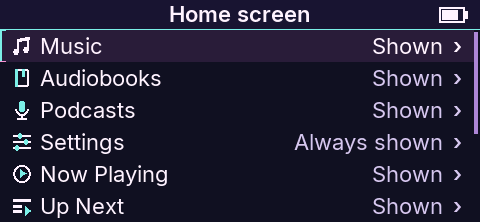
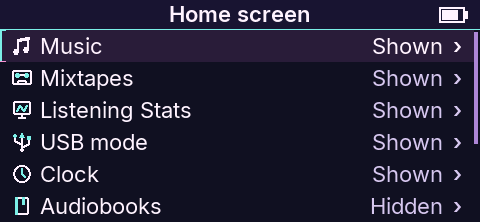
Correct Home screenshots to the new default menu order

diff --git a/site/docs.html b/site/docs.html
@@ -32,19 +32,19 @@
 </header>
 <main id="main"><div class="page-intro wrap"><p class="eyebrow">Docs · player guide</p><h1 class="page-title">Get to know Gnarlyr.</h1><p>Find your way around the screens, learn the buttons and make the player your own. Screenshots are rendered by Gnarlyr’s simulator with a sample library. Select any image to see it at full size.</p></div><div class="doc-layout wrap"><nav class="contents" aria-label="On this page"><p class="eyebrow">On this page</p><ol><li><a href="#basics">Buttons &amp; Home</a></li><li><a href="#music">Find music</a></li><li><a href="#playback">Now Playing &amp; queue</a></li><li><a href="#saved">Mixtapes &amp; Moments</a></li><li><a href="#words">Books &amp; lyrics</a></li><li><a href="#sound">Equalizer</a></li><li><a href="#settings">All settings</a></li><li><a href="#date-time">Date &amp; time</a></li><li><a href="#personalize">Themes &amp; controls</a></li><li><a href="#languages">Languages</a></li><li><a href="#usb">USB modes</a></li><li><a href="#references">Hardware &amp; more guides</a></li></ol></nav><div><section class="doc-section" id="basics" aria-labelledby="basics-title"><h2 id="basics-title">Start here.</h2><p class="intro">Use the volume buttons to move, Play to choose and Back to return. Hold Back to go Home.</p><div class="screen-grid"><article class="screen-card"><div class="screen-heading"><h3>Home</h3><p class="screen-path">Hold Back → Home</p></div>
 <figure><a class="screen-image" href="assets/screens/home.png" aria-label="Open Home screenshot at full size"><img src="assets/screens/home.png" width="480" height="222" loading="lazy" decoding="async" alt="Gnarlyr Home screen"></a><figcaption>Landscape view · select image to enlarge</figcaption></figure>
-<div class="screen-copy"><p>Open Music, Audiobooks, Settings, Mixtapes, Listening or USB mode here. Now Playing and Up Next appear after you choose a track.</p><ul><li>Press Play to open the highlighted item.</li><li>The battery icon shows remaining charge. It turns red as charge runs low; a bolt inside it shows USB power.</li><li>Press Power to turn the screen off or on; hold it for two seconds to switch off.</li><li>For pocket listening, hold Play and Power together for about a second to lock or unlock the buttons.</li></ul></div></article></div></section><section class="doc-section" id="music" aria-labelledby="music-title"><h2 id="music-title">Find something to play.</h2><p class="intro">Browse your library visually or search for a song. Start from an artist, album, folder or playlist to keep that group together.</p><div class="screen-grid"><article class="screen-card"><div class="screen-heading"><h3>Cover Flow</h3><p class="screen-path">Home → Music → Cover Flow</p></div>
+<div class="screen-copy"><p>Home starts with Music, Mixtapes, Listening Stats, USB mode, Clock and Settings, in that order. Now Playing appears above Music whenever a track is loaded, playing or paused.</p><ul><li>Press Play to open the highlighted item. Music includes the Audiobooks and Podcasts shelves when available.</li><li>Open Up Next with Menu on Now Playing. Settings → Home screen can also show the shelves and Up Next on Home.</li><li>The battery icon shows remaining charge. It turns red as charge runs low; a bolt inside it shows USB power.</li><li>Press Power to turn the screen off or on; hold it for two seconds to switch off.</li><li>For pocket listening, hold Play and Power together for about a second to lock or unlock the buttons.</li></ul></div></article></div></section><section class="doc-section" id="music" aria-labelledby="music-title"><h2 id="music-title">Find something to play.</h2><p class="intro">Browse your library visually or search for a song. Start from an artist, album, folder or playlist to keep that group together.</p><div class="screen-grid"><article class="screen-card"><div class="screen-heading"><h3>Cover Flow</h3><p class="screen-path">Home → Music → Cover Flow</p></div>
 <figure><a class="screen-image" href="assets/screens/cover-flow.png" aria-label="Open Cover Flow screenshot at full size"><img src="assets/screens/cover-flow.png" width="480" height="222" loading="lazy" decoding="async" alt="Gnarlyr Cover Flow screen"></a><figcaption>Landscape view · select image to enlarge</figcaption></figure>
 <div class="screen-copy"><p>Flip through album covers. Albums without artwork get a colored cover with initials, using your current theme. The Random album tile picks an album for you.</p><ul><li>Use the volume buttons to move between albums.</li><li>Hold to scroll faster, then jump between artist initials.</li><li>Press Play to open an album; hold Play to favorite it.</li></ul></div></article><article class="screen-card"><div class="screen-heading"><h3>Search</h3><p class="screen-path">Home → Music → Search</p></div>
 <figure><a class="screen-image" href="assets/screens/search.png" aria-label="Open Search screenshot at full size"><img src="assets/screens/search.png" width="480" height="222" loading="lazy" decoding="async" alt="Gnarlyr Search screen"></a><figcaption>Landscape view · select image to enlarge</figcaption></figure>
 <div class="screen-copy"><p>Find songs by title, artist, album, album artist, genre or file path.</p><ul><li>Volume chooses a character; Play adds it and Menu erases.</li><li>Hold Play to run the search.</li><li>In the results, Menu opens sorting and filters. Hold Play on a song for Track info, My tags and queue actions.</li></ul></div></article></div><h3 id="cue-albums">One album file, separate songs.</h3><p>A CUE sheet is a small text file that marks where each song starts inside a single album recording. Put the <code>.cue</code> beside its matching FLAC, WAV or MP3 file, then run Settings → Rescan library.</p><p>In Music → Folders, open the CUE sheet to choose a song by title. Opening the audio file plays the whole album. Seeking, Up Next and resume use each song’s own position. A sheet must refer to one audio file; invalid track numbers or times and starts that repeat or go backwards are ignored.</p><div class="screen-grid"><article class="screen-card"><div class="screen-heading"><h3>Smart Lists</h3><p class="screen-path">Music → Smart Lists</p></div><figure><a class="screen-image" href="assets/screens/smart-lists.png" aria-label="Open Smart Lists screenshot at full size"><img src="assets/screens/smart-lists.png" width="480" height="222" loading="lazy" decoding="async" alt="Gnarlyr Smart Lists"></a><figcaption>Select image to enlarge</figcaption></figure><div class="screen-copy"><p>Five ready-made lists help you choose what to play. Each holds up to 100 songs.</p><dl class="setting-reference"><div><dt>Recently Added</dt><dd>New songs from later library scans, newest first. The first visit establishes the starting library.</dd></div><div><dt>Recently Played</dt><dd>Your latest songs, with each song listed once.</dd></div><div><dt>Most Played</dt><dd>Songs you heard at least halfway, ranked by play count.</dd></div><div><dt>Never Played</dt><dd>Songs you have not played, with newer additions first.</dd></div><div><dt>Old Favorites</dt><dd>Favorite tracks and albums you have not played in your last 500 plays.</dd></div></dl><p>Play starts a list at the selected song. Hold Play for queue actions. Lists use your last 4,096 plays.</p></div></article></div></section><section class="doc-section" id="playback" aria-labelledby="playback-title"><h2 id="playback-title">Play now. Plan what comes next.</h2><p class="intro">Now Playing controls the current track. Up Next shows its place in the play order.</p><div class="screen-grid"><article class="screen-card"><div class="screen-heading"><h3>Now Playing</h3><p class="screen-path">Home → Now Playing</p></div>
 <figure><a class="screen-image" href="assets/screens/now-playing.png" aria-label="Open Now Playing screenshot at full size"><img src="assets/screens/now-playing.png" width="480" height="222" loading="lazy" decoding="async" alt="Gnarlyr Now Playing screen"></a><figcaption>Landscape view · select image to enlarge</figcaption></figure>
-<div class="screen-copy"><p>See the song, artist, album, audio format and progress. The top bar shows playback and connection status.</p><ul><li>Play pauses or resumes. Hold Play to seek, choose a position with the volume buttons, then press Play to jump.</li><li>The volume buttons adjust loudness. Tap Menu to open Up Next; hold Menu for Lyrics.</li><li>Change playback shortcuts in Settings → Controls.</li></ul></div></article><article class="screen-card"><div class="screen-heading"><h3>Up Next</h3><p class="screen-path">Home → Up Next · or Menu on Now Playing</p></div>
+<div class="screen-copy"><p>See the song, artist, album, audio format and progress. The top bar shows playback and connection status.</p><ul><li>Play pauses or resumes. Hold Play to seek, choose a position with the volume buttons, then press Play to jump.</li><li>The volume buttons adjust loudness. Tap Menu to open Up Next; hold Menu for Lyrics.</li><li>Change playback shortcuts in Settings → Controls.</li></ul></div></article><article class="screen-card"><div class="screen-heading"><h3>Up Next</h3><p class="screen-path">Now Playing → Menu</p></div>
 <figure><a class="screen-image" href="assets/screens/up-next.png" aria-label="Open Up Next screenshot at full size"><img src="assets/screens/up-next.png" width="480" height="222" loading="lazy" decoding="async" alt="Gnarlyr Up Next screen"></a><figcaption>Landscape view · select image to enlarge</figcaption></figure>
 <div class="screen-copy"><p>This is the order the player will follow, including songs you add while listening.</p><ul><li>Hold Play on an entry for its actions.</li><li>Move a song earlier, later or next, or remove it.</li><li>On the playing entry, Edit full queue turns an album or shuffled order into a mix you can rearrange.</li></ul></div></article></div></section><section class="doc-section" id="saved" aria-labelledby="saved-title"><h2 id="saved-title">Save a mix. See what you listen to.</h2><p class="intro">Save a play order, build a two-sided cassette or mark a favorite moment. Listening keeps your totals and most-played music together.</p><div class="screen-grid"><article class="screen-card"><div class="screen-heading"><h3>Mixtapes</h3><p class="screen-path">Home → Mixtapes</p></div>
 <figure><a class="screen-image" href="assets/screens/mixtapes.png" aria-label="Open Mixtapes screenshot at full size"><img src="assets/screens/mixtapes.png" width="480" height="222" loading="lazy" decoding="async" alt="Gnarlyr Mixtapes screen"></a><figcaption>Landscape view · select image to enlarge</figcaption></figure>
-<div class="screen-copy"><p>Save queue captures Up Next as a named mix. New mixtape starts an empty one.</p><ul><li>While naming, Volume chooses, Play adds and Menu erases; hold Play to save.</li><li>Open a saved mix to play it, edit it in Up Next, rename it or delete it.</li><li>Editing Up Next leaves the saved mix unchanged. In the mix’s actions, Replace queue saves your current play order over it.</li></ul></div></article><article class="screen-card"><div class="screen-heading"><h3>Listening</h3><p class="screen-path">Home → Listening</p></div>
+<div class="screen-copy"><p>Save queue captures Up Next as a named mix. New mixtape starts an empty one.</p><ul><li>While naming, Volume chooses, Play adds and Menu erases; hold Play to save.</li><li>Open a saved mix to play it, edit it in Up Next, rename it or delete it.</li><li>Editing Up Next leaves the saved mix unchanged. In the mix’s actions, Replace queue saves your current play order over it.</li></ul></div></article><article class="screen-card"><div class="screen-heading"><h3>Listening</h3><p class="screen-path">Home → Listening Stats</p></div>
 <figure><a class="screen-image" href="assets/screens/listening.png" aria-label="Open Listening screenshot at full size"><img src="assets/screens/listening.png" width="480" height="222" loading="lazy" decoding="async" alt="Gnarlyr Listening screen"></a><figcaption>Landscape view · select image to enlarge</figcaption></figure>
-<div class="screen-copy"><p>See total listening time, plays and skips, plus your top artists, albums and songs.</p><ul><li>Open a top list to explore your most-played music. Moments saves exact places to return to later.</li><li>Export plays writes an Audioscrobbler-compatible <code>.scrobbler.log</code> at the top of the music drive. It shows progress, then the number of plays saved; each export replaces the previous file.</li><li>Back cancels an export and removes the partial file. If there are no plays to export, the player says so and leaves an existing file alone. Exporting keeps your listening history.</li></ul></div></article></div><div class="screen-grid"><article class="screen-card" id="tapes"><div class="screen-heading"><h3>Two-sided tapes</h3><p class="screen-path">Mixtapes → New two-sided tape</p></div><figure><a class="screen-image" href="assets/screens/tape-length.png" aria-label="Open Two-sided tapes screenshot at full size"><img src="assets/screens/tape-length.png" width="480" height="222" loading="lazy" decoding="async" alt="Gnarlyr Two-sided tapes"></a><figcaption>Select image to enlarge</figcaption></figure><div class="screen-copy"><p>Build a cassette with a beginning, an end and two sides. C60 gives you 30 minutes per side; C90 gives you 45.</p><ol><li>Choose a length and name your tape. The usual naming controls apply.</li><li>Hold Play on a song in Music, choose Add to tape, then choose the tape and Side A or Side B. Each side holds up to 64 songs within its time limit.</li><li>Add a song to both sides, then open the tape and choose Resume tape, Play Side A or Play Side B.</li></ol><p>At the end of Side A, Play flips to Side B. At the end of Side B, Play rewinds to Side A. Back leaves playback stopped. Resume remembers the side and position across restarts. Playing another list leaves tape mode; queue editing is unavailable while a tape is playing.</p></div></article><article class="screen-card" id="moments"><div class="screen-heading"><h3>Saved Moments</h3><p class="screen-path">Listening → Moments</p></div><figure><a class="screen-image" href="assets/screens/moments.png" aria-label="Open Saved Moments screenshot at full size"><img src="assets/screens/moments.png" width="480" height="222" loading="lazy" decoding="async" alt="Gnarlyr Saved Moments"></a><figcaption>Select image to enlarge</figcaption></figure><div class="screen-copy"><p>Keep a shortcut to a favorite solo, a line in a book or any other place you want to hear again.</p><ul><li>While listening, choose Save moment. The new entry shows the track title and time, newest first.</li><li>Select a saved moment to play from that exact spot.</li><li>Hold Play on an entry to delete it; Keep moment cancels. You can keep 64 moments.</li></ul><p>Moments survive restarts and rescans. Keep a file’s path and chapter boundaries unchanged so the player can find it. A missing recording stays listed until it returns.</p></div></article></div></section><section class="doc-section" id="words" aria-labelledby="words-title"><h2 id="words-title">Books, chapters and lyrics.</h2><p class="intro">Audiobooks keep a bookmark so you can carry on later. Lyrics follow the words in a matching timed text file.</p><div class="screen-grid"><article class="screen-card"><div class="screen-heading"><h3>Audiobook chapters</h3><p class="screen-path">Home → Audiobooks → hold Play on a book</p></div>
+<div class="screen-copy"><p>See total listening time, plays and skips, plus your top artists, albums and songs.</p><ul><li>Open a top list to explore your most-played music. Moments saves exact places to return to later.</li><li>Export plays writes an Audioscrobbler-compatible <code>.scrobbler.log</code> at the top of the music drive. It shows progress, then the number of plays saved; each export replaces the previous file.</li><li>Back cancels an export and removes the partial file. If there are no plays to export, the player says so and leaves an existing file alone. Exporting keeps your listening history.</li></ul></div></article></div><div class="screen-grid"><article class="screen-card" id="tapes"><div class="screen-heading"><h3>Two-sided tapes</h3><p class="screen-path">Mixtapes → New two-sided tape</p></div><figure><a class="screen-image" href="assets/screens/tape-length.png" aria-label="Open Two-sided tapes screenshot at full size"><img src="assets/screens/tape-length.png" width="480" height="222" loading="lazy" decoding="async" alt="Gnarlyr Two-sided tapes"></a><figcaption>Select image to enlarge</figcaption></figure><div class="screen-copy"><p>Build a cassette with a beginning, an end and two sides. C60 gives you 30 minutes per side; C90 gives you 45.</p><ol><li>Choose a length and name your tape. The usual naming controls apply.</li><li>Hold Play on a song in Music, choose Add to tape, then choose the tape and Side A or Side B. Each side holds up to 64 songs within its time limit.</li><li>Add a song to both sides, then open the tape and choose Resume tape, Play Side A or Play Side B.</li></ol><p>At the end of Side A, Play flips to Side B. At the end of Side B, Play rewinds to Side A. Back leaves playback stopped. Resume remembers the side and position across restarts. Playing another list leaves tape mode; queue editing is unavailable while a tape is playing.</p></div></article><article class="screen-card" id="moments"><div class="screen-heading"><h3>Saved Moments</h3><p class="screen-path">Listening Stats → Moments</p></div><figure><a class="screen-image" href="assets/screens/moments.png" aria-label="Open Saved Moments screenshot at full size"><img src="assets/screens/moments.png" width="480" height="222" loading="lazy" decoding="async" alt="Gnarlyr Saved Moments"></a><figcaption>Select image to enlarge</figcaption></figure><div class="screen-copy"><p>Keep a shortcut to a favorite solo, a line in a book or any other place you want to hear again.</p><ul><li>While listening, choose Save moment. The new entry shows the track title and time, newest first.</li><li>Select a saved moment to play from that exact spot.</li><li>Hold Play on an entry to delete it; Keep moment cancels. You can keep 64 moments.</li></ul><p>Moments survive restarts and rescans. Keep a file’s path and chapter boundaries unchanged so the player can find it. A missing recording stays listed until it returns.</p></div></article></div></section><section class="doc-section" id="words" aria-labelledby="words-title"><h2 id="words-title">Books, chapters and lyrics.</h2><p class="intro">Audiobooks keep a bookmark so you can carry on later. Lyrics follow the words in a matching timed text file.</p><div class="screen-grid"><article class="screen-card"><div class="screen-heading"><h3>Audiobook chapters</h3><p class="screen-path">Music → Audiobooks → hold Play on a book</p></div>
 <figure><a class="screen-image" href="assets/screens/audiobook-chapters.png" aria-label="Open Audiobook chapters screenshot at full size"><img src="assets/screens/audiobook-chapters.png" width="480" height="222" loading="lazy" decoding="async" alt="Gnarlyr Audiobook chapters screen"></a><figcaption>Landscape view · select image to enlarge</figcaption></figure>
 <div class="screen-copy"><p>M4B books appear on the Audiobooks shelf after a library scan, including books outside a dedicated folder.</p><ul><li>Select a book to resume its saved chapter and position.</li><li>Hold Play to browse chapter titles, then choose one to start there.</li><li>Keep the book’s filename and location to retain its bookmark.</li></ul><p><a href="firmware.html#spoken">Audio formats and preparing speech recordings →</a></p></div></article><article class="screen-card"><div class="screen-heading"><h3>Lyrics</h3><p class="screen-path">Now Playing → hold Menu</p></div>
 <figure><a class="screen-image" href="assets/screens/lyrics.png" aria-label="Open Lyrics screenshot at full size"><img src="assets/screens/lyrics.png" width="480" height="222" loading="lazy" decoding="async" alt="Gnarlyr Lyrics screen"></a><figcaption>Landscape view · select image to enlarge</figcaption></figure>
@@ -54,7 +54,7 @@
 <figure><a class="screen-image" href="assets/screens/themes.png" aria-label="Open Themes screenshot at full size"><img src="assets/screens/themes.png" width="480" height="222" loading="lazy" decoding="async" alt="Gnarlyr Themes screen"></a><figcaption>Landscape view · select image to enlarge</figcaption></figure>
 <div class="screen-copy"><p>Choose Graphite, Neon Noir, Sunset, Sea Glass or Classic. Text size and Orientation control the layout.</p><ul><li>Preview a theme with the volume buttons.</li><li>Play keeps it; Back restores your saved theme.</li><li><a href="languages.html">Language packs</a> change interface text while keeping English available.</li></ul></div></article><article class="screen-card"><div class="screen-heading"><h3>Controls</h3><p class="screen-path">Settings → Controls</p></div>
 <figure><a class="screen-image" href="assets/screens/controls.png" aria-label="Open Controls screenshot at full size"><img src="assets/screens/controls.png" width="480" height="222" loading="lazy" decoding="async" alt="Gnarlyr Controls screen"></a><figcaption>Landscape view · select image to enlarge</figcaption></figure>
-<div class="screen-copy"><p>Assign tap and hold actions to Volume+, Volume−, Play and Menu. These shortcuts control playback; lists keep their usual navigation.</p><ul><li>Choose a button action, then select the shortcut you want.</li><li>Use Default for the standard behavior.</li><li>Audio shortcuts also work with the screen off.</li></ul></div></article></div><section class="screen-views" id="controls-views" aria-labelledby="controls-views-title"><h3 id="controls-views-title">Remaining button actions</h3><div class="doc-gallery"><figure><h4>Controls — lower entries</h4><a class="screen-image" href="assets/screens/controls-more.png" aria-label="Open Controls — lower entries screenshot at full size"><img src="assets/screens/controls-more.png" width="480" height="222" loading="lazy" decoding="async" alt="Controls — lower entries"></a><figcaption>Scroll view · select image to enlarge</figcaption></figure></div></section><div class="screen-grid"><article class="screen-card"><div class="screen-heading"><h3>Home screen</h3><p class="screen-path">Settings → Home screen</p></div><figure><a class="screen-image" href="assets/screens/home-editor.png" aria-label="Open Home screen screenshot at full size"><img src="assets/screens/home-editor.png" width="480" height="222" loading="lazy" decoding="async" alt="Gnarlyr Home screen"></a><figcaption>Select image to enlarge</figcaption></figure><div class="screen-copy"><p>Put the items you use most near the top and hide the rest. Settings always stays on Home.</p><ul><li>Play opens an item’s Show/Hide and Move actions.</li><li>Choose Move, or hold Play, then use the volume buttons to reorder it.</li><li>Play places it; Back cancels the move. Reset to default restores the original layout.</li></ul><p>Home → Clock shows the time and date after a Mac sync. Play opens Calendar; volume moves between months and Play returns to the current month. <a href="build.html#clock">How to sync the time →</a></p></div></article></div><div class="language-gallery" id="languages"><h3>Gnarlyr, in another language.</h3><p>Menus can change language while song titles keep the names in your files. Here is Home in Spanish, French, German and Russian.</p><div class="doc-gallery"><figure><h4><span lang="es">Español</span> <span class="language-caption">· Spanish</span></h4><a class="screen-image" href="assets/screens/home-es.png" aria-label="Open Gnarlyr Home in Spanish at full size"><img src="assets/screens/home-es.png" width="480" height="222" loading="lazy" decoding="async" alt="Gnarlyr Home menu in Spanish"></a></figure><figure><h4><span lang="fr">Français</span> <span class="language-caption">· French</span></h4><a class="screen-image" href="assets/screens/home-fr.png" aria-label="Open Gnarlyr Home in French at full size"><img src="assets/screens/home-fr.png" width="480" height="222" loading="lazy" decoding="async" alt="Gnarlyr Home menu in French"></a></figure><figure><h4><span lang="de">Deutsch</span> <span class="language-caption">· German</span></h4><a class="screen-image" href="assets/screens/home-de.png" aria-label="Open Gnarlyr Home in German at full size"><img src="assets/screens/home-de.png" width="480" height="222" loading="lazy" decoding="async" alt="Gnarlyr Home menu in German"></a></figure><figure><h4><span lang="ru">Русский</span> <span class="language-caption">· Russian</span></h4><a class="screen-image" href="assets/screens/home-ru.png" aria-label="Open Gnarlyr Home in Russian at full size"><img src="assets/screens/home-ru.png" width="480" height="222" loading="lazy" decoding="async" alt="Gnarlyr Home menu in Russian"></a></figure></div><p>These examples use small language packs for the menus shown. <a href="languages.html">Create or edit a matching pack</a>, copy it to the player and choose Settings → Language. English stays available.</p></div></section><section class="doc-section" id="usb" aria-labelledby="usb-title"><h2 id="usb-title">One cable. Three modes.</h2><p class="intro">Choose whether the cable only charges the player, connects its drives or carries your computer’s audio. On each computer connection, the default Ask prompt waits for your choice; after 15 seconds it stays in Charge only.</p><div class="screen-grid"><article class="screen-card"><div class="screen-heading"><h3>USB mode</h3><p class="screen-path">Home → USB mode · or Settings → USB mode</p></div>
+<div class="screen-copy"><p>Assign tap and hold actions to Volume+, Volume−, Play and Menu. These shortcuts control playback; lists keep their usual navigation.</p><ul><li>Choose a button action, then select the shortcut you want.</li><li>Use Default for the standard behavior.</li><li>Audio shortcuts also work with the screen off.</li></ul></div></article></div><section class="screen-views" id="controls-views" aria-labelledby="controls-views-title"><h3 id="controls-views-title">Remaining button actions</h3><div class="doc-gallery"><figure><h4>Controls — lower entries</h4><a class="screen-image" href="assets/screens/controls-more.png" aria-label="Open Controls — lower entries screenshot at full size"><img src="assets/screens/controls-more.png" width="480" height="222" loading="lazy" decoding="async" alt="Controls — lower entries"></a><figcaption>Scroll view · select image to enlarge</figcaption></figure></div></section><div class="screen-grid"><article class="screen-card"><div class="screen-heading"><h3>Home screen</h3><p class="screen-path">Settings → Home screen</p></div><figure><a class="screen-image" href="assets/screens/home-editor.png" aria-label="Open Home screen screenshot at full size"><img src="assets/screens/home-editor.png" width="480" height="222" loading="lazy" decoding="async" alt="Gnarlyr Home screen"></a><figcaption>Select image to enlarge</figcaption></figure><div class="screen-copy"><p>Put the items you use most near the top and hide the rest. Settings always stays on Home.</p><ul><li>Play opens an item’s Show/Hide and Move actions.</li><li>Choose Move, or hold Play, then use the volume buttons to reorder it.</li><li>Play places it; Back cancels the move. Reset to default restores Music, Mixtapes, Listening Stats, USB mode, Clock and Settings, with Audiobooks, Podcasts and Up Next hidden.</li></ul><p>Now Playing appears automatically at the top when a track is loaded and has no row in this editor. Audiobooks, Podcasts and Up Next can be shown here. <a href="#date-time">Set the clock and explore Calendar →</a></p></div></article></div><div class="language-gallery" id="languages"><h3>Gnarlyr, in another language.</h3><p>Menus can change language while song titles keep the names in your files. Here is Home in Spanish, French, German and Russian.</p><div class="doc-gallery"><figure><h4><span lang="es">Español</span> <span class="language-caption">· Spanish</span></h4><a class="screen-image" href="assets/screens/home-es.png" aria-label="Open Gnarlyr Home in Spanish at full size"><img src="assets/screens/home-es.png" width="480" height="222" loading="lazy" decoding="async" alt="Gnarlyr Home menu in Spanish"></a></figure><figure><h4><span lang="fr">Français</span> <span class="language-caption">· French</span></h4><a class="screen-image" href="assets/screens/home-fr.png" aria-label="Open Gnarlyr Home in French at full size"><img src="assets/screens/home-fr.png" width="480" height="222" loading="lazy" decoding="async" alt="Gnarlyr Home menu in French"></a></figure><figure><h4><span lang="de">Deutsch</span> <span class="language-caption">· German</span></h4><a class="screen-image" href="assets/screens/home-de.png" aria-label="Open Gnarlyr Home in German at full size"><img src="assets/screens/home-de.png" width="480" height="222" loading="lazy" decoding="async" alt="Gnarlyr Home menu in German"></a></figure><figure><h4><span lang="ru">Русский</span> <span class="language-caption">· Russian</span></h4><a class="screen-image" href="assets/screens/home-ru.png" aria-label="Open Gnarlyr Home in Russian at full size"><img src="assets/screens/home-ru.png" width="480" height="222" loading="lazy" decoding="async" alt="Gnarlyr Home menu in Russian"></a></figure></div><p>These examples use small language packs for the menus shown. <a href="languages.html">Create or edit a matching pack</a>, copy it to the player and choose Settings → Language. English stays available.</p></div></section><section class="doc-section" id="usb" aria-labelledby="usb-title"><h2 id="usb-title">One cable. Three modes.</h2><p class="intro">Choose whether the cable only charges the player, connects its drives or carries your computer’s audio. On each computer connection, the default Ask prompt waits for your choice; after 15 seconds it stays in Charge only.</p><div class="screen-grid"><article class="screen-card"><div class="screen-heading"><h3>USB mode</h3><p class="screen-path">Home → USB mode · or Settings → USB mode</p></div>
 <figure><a class="screen-image" href="assets/screens/usb-mode.png" aria-label="Open USB mode screenshot at full size"><img src="assets/screens/usb-mode.png" width="480" height="222" loading="lazy" decoding="async" alt="Gnarlyr USB mode screen"></a><figcaption>Landscape view · select image to enlarge</figcaption></figure>
 <div class="screen-copy"><ul><li><strong>Charge only:</strong> keep using the player without connecting it to the computer.</li><li><strong>File transfer:</strong> copy music or an update. Internal storage and an inserted microSD card appear separately.</li><li><strong>USB DAC:</strong> send computer audio to the headphone outputs. Select Gnarlyr as the computer’s sound output.</li></ul><p>Eject every ECHO drive on the computer, or hold Back for a second on the player. Wait for the chooser, then select Charge only. From DAC mode, hold Back and release to return to the chooser, or choose another mode in its menu.</p><p><a href="install.html#update">For firmware updates, wait for “Update installed” before unplugging →</a></p></div></article></div><h3>File transfer: see when it is busy.</h3><p>The cassette reels turn while the computer reads or writes. The screen shows Connected, Reading, Copying, Still writing or Disconnecting, plus the copied amount, drive sizes or Ejected, USB speed and battery.</p><p>Holding Back asks the player to disconnect. It waits until the computer has stopped writing for three seconds, shows Disconnecting for two seconds, then returns to the chooser. If it says Still writing, let it finish. Continuing to hold Back for three more seconds forces a disconnect and can lose recent changes.</p><p>A player-side disconnect may make macOS show “Disk Not Ejected Properly.” Ejecting on the computer avoids that notice. For firmware updates, use the <a href="install.html#update">computer-eject procedure</a> and leave the cable connected until installation finishes.</p><h3>USB DAC: use the ECHO for computer audio.</h3><p>Choose USB DAC, then select Gnarlyr as the computer’s sound output. It accepts 16/24-bit audio at 44.1 or 48 kHz.</p><dl class="setting-reference"><div><dt>On screen</dt><dd>Stereo level meters, audio format, player and computer volume, headphone output and active profile. Buffer, clock correction and underrun counts give more detail about the stream.</dd></div><div><dt>Menu</dt><dd>Adjust Volume, Gain, Output or Headphones without leaving DAC mode. You can also switch to File transfer or Charge only.</dd></div><div><dt>Volume buttons</dt><dd>Move through menu rows; Play changes a choice. On Volume, press Play and then use the volume buttons to adjust. Back or Menu closes the menu.</dd></div></dl><p>DAC mode remembers its own volume, starting at 35 of 60, separately from music. Start low. Headphone-profile trim, balance and ceiling apply; EQ and ReplayGain do not.</p></section><section class="doc-section" id="references" aria-labelledby="references-title"><h2 id="references-title">Go a little deeper.</h2><p class="intro">Find hardware specifications, installation help and tools for building on Gnarlyr.</p><p class="hardware-link">Looking for the player? <a href="https://www.amazon.com/dp/B0GK61Y1FD?tag=doublesharp-20" rel="sponsored nofollow">View ECHO on Amazon ↗</a> or <a href="https://s.click.aliexpress.com/e/_c3RytQbH" rel="sponsored nofollow">AliExpress ↗</a></p><div class="guide-links">
 <a class="guide-link" href="hardware.html"><strong>ECHO hardware →</strong><span>Specifications, confirmed chips, screen, storage, USB and power.</span></a>

diff --git a/site/firmware.html b/site/firmware.html
@@ -153,7 +153,7 @@
 <ul class="detail-list">
 <li><strong>Themes and readable layouts.</strong> Choose from five themes and three text sizes, with landscape, portrait or flipped portrait layouts. Preview themes as you browse: Play keeps the choice and Back restores your saved look. Palette files let you customize the built-in themes.
 </li>
-<li><strong>Your own Home screen.</strong> Reorder or hide Home items in Settings → Home screen. Settings stays available, and Reset to default restores the original layout.</li>
+<li><strong>Your own Home screen.</strong> Home puts Music, Mixtapes, Listening Stats, USB mode, Clock and Settings together. Now Playing appears automatically at the top when a track is loaded. Reorder or hide the other items, or show Audiobooks, Podcasts and Up Next, in Settings → Home screen. Settings stays available; Reset to default restores this layout.</li>
 <li><strong>Clock and calendar.</strong> Set the local date, time and UTC offset in Settings → Date &amp; time, or sync from a Mac. The clock chip and saved offset restore local time after a restart. Home → Clock opens the time and date; Play opens the monthly calendar. Choose 12-hour or 24-hour time. <a href="docs.html#date-time">Set the clock →</a></li>
 <li><strong>Controls that fit your hands.</strong> Set a tap and a hold action for Volume+, Volume−, Play and Menu: eight playback shortcuts. Choose volume, seeking, playback, Home or Up Next actions. Audio shortcuts work with the screen off; list navigation keeps its usual controls.
 </li>

diff --git a/tools/site_screenshots.py b/tools/site_screenshots.py
@@ -101,7 +101,7 @@ def run(command, log, env):
     return result.stdout
 
 
-def create_demo(config, work, env):
+def create_demo(config, work, env, source_root=ROOT):
     card = work / "music"
     card.mkdir()
     demo = config.get("demo", {})
@@ -139,24 +139,24 @@ def create_demo(config, work, env):
         run(["ffmpeg", "-v", "error", "-f", "lavfi", "-i", "anullsrc=r=44100:cl=stereo", "-f", "ffmetadata", "-i", metadata,
              "-t", str(count * 10), "-map_metadata", "1", "-map_chapters", "1", "-c:a", "aac", "-b:a", "32k", folder / "City Stories.m4b"], work / "book.log", env)
     library = work / "library.db"
-    python = ROOT / "firmware/.venv/bin/python"
-    run([python, ROOT / "firmware/tools/library_index.py", "--music", card, "--output", library], work / "index.log", env)
+    python = source_root / "firmware/.venv/bin/python"
+    run([python, source_root / "firmware/tools/library_index.py", "--music", card, "--output", library], work / "index.log", env)
     return card, library
 
 
-def prepare_language(case, system, work, env):
+def prepare_language(case, system, work, env, source_root=ROOT):
     language = case.get("language")
     if language is None:
         return
     source = work / (case["name"] + "-language")
     source.mkdir()
-    shutil.copyfile(ROOT / "firmware/assets/lang/en.txt", source / "en.txt")
+    shutil.copyfile(source_root / "firmware/assets/lang/en.txt", source / "en.txt")
     code = language["code"]
     (source / (code + ".txt")).write_text("\n".join(
         key + " = " + value for key, value in language["strings"].items()) + "\n", encoding="utf-8")
     output = system / "lang"
     output.mkdir()
-    run([ROOT / "firmware/.venv/bin/python", ROOT / "firmware/tools/lang_pack.py",
+    run([source_root / "firmware/.venv/bin/python", source_root / "firmware/tools/lang_pack.py",
          "--languages", source, "--pack", code, "--output", output / (code + ".pack")],
         work / (case["name"] + "-language.log"), env)
 
@@ -166,7 +166,8 @@ def render_case(case, context):
     system = work / (case["name"] + "-system")
     system.mkdir()
     shutil.copyfile(context["library"], system / "library.db")
-    prepare_language(case, system, work, env)
+    source_root = context.get("source_root", ROOT)
+    prepare_language(case, system, work, env, source_root)
     bmp = work / (case["name"] + ".bmp")
     command = [context["simulator"], "--headless", "--frames", str(case.get("frames", context["defaults"].get("frames", 900))),
                "--battery", str(context["defaults"].get("battery", 80)), "--card", context["card"], "--system-dir", system, "--screenshot", bmp]
@@ -176,7 +177,7 @@ def render_case(case, context):
     if not any(line.startswith(case["expected_title"] + ":") for line in result.splitlines()):
         raise ValueError(f"{case['name']} did not reach {case['expected_title']!r}; inspect {work / (case['name'] + '.log')}")
     if case.get("language"):
-        schema = (ROOT / "firmware/src/settings/settings.c").read_text()
+        schema = (source_root / "firmware/src/settings/settings.c").read_text()
         offset = int(re.search(r"\bLANGUAGE_FIELD\s*=\s*(\d+)", schema)[1])
         saved = (system / "settings.bin").read_bytes()
         code = case["language"]["code"].encode("ascii")
@@ -213,7 +214,8 @@ def main():
     parser.add_argument("--config", type=Path, default=DEFAULT_CONFIG)
     parser.add_argument("--only", action="append", default=[], help="Screen name to render; repeat to select more")
     parser.add_argument("--output", type=Path, default=ROOT / "site/assets/screens")
-    parser.add_argument("--simulator", type=Path, default=ROOT / "firmware/build/dev/platform/sim/echo_sim")
+    parser.add_argument("--source-root", type=Path, default=ROOT, help="Checkout containing the firmware to build and capture")
+    parser.add_argument("--simulator", type=Path, help="Override the selected checkout's simulator binary")
     parser.add_argument("--no-build", action="store_true", help="Use an already-built simulator")
     parser.add_argument("--list", action="store_true", help="Validate and list configured screens without building")
     parser.add_argument("--keep-work", action="store_true", help="Keep temporary render files on Scratch")
@@ -230,16 +232,20 @@ def main():
             return 0
         if not Path("/Volumes/Scratch").is_mount():
             raise ValueError("Mount /Volumes/Scratch before rendering")
+        source_root = args.source_root.resolve()
+        if not (source_root / "tools/firmware.py").is_file() or not (source_root / "firmware/identity.json").is_file():
+            raise ValueError("Source root must contain tools/firmware.py and firmware/identity.json")
+        simulator = args.simulator or source_root / "firmware/build/dev/platform/sim/echo_sim"
         parent = SCRATCH / "tmp/site-screenshots"
         parent.mkdir(parents=True, exist_ok=True)
         work = Path(tempfile.mkdtemp(prefix="run-", dir=parent))
         env = {**os.environ, "TMPDIR": str(work), "PYTHONDONTWRITEBYTECODE": "1"}
         if not args.no_build:
-            run([sys.executable, ROOT / "tools/firmware.py", "build", "--preset", "dev", "--target", "echo_sim", "--jobs", "4"], work / "build.log", env)
-        if not args.simulator.is_file():
+            run([sys.executable, source_root / "tools/firmware.py", "build", "--preset", "dev", "--target", "echo_sim", "--jobs", "4"], work / "build.log", env)
+        if not simulator.is_file():
             raise ValueError("Build the simulator first, or pass --simulator")
-        card, library = create_demo(config, work, env)
-        context = {"work": work, "env": env, "simulator": args.simulator.resolve(), "card": card, "library": library, "defaults": config.get("defaults", {})}
+        card, library = create_demo(config, work, env, source_root)
+        context = {"work": work, "env": env, "source_root": source_root, "simulator": simulator.resolve(), "card": card, "library": library, "defaults": config.get("defaults", {})}
         rendered = {case["file"]: render_case(case, context) for case in screens}
         publish_screens(rendered, args.output)
         print(json.dumps({"output": str(args.output.resolve()), "screens": [{"file": name, "sha256": hashlib.sha256(data).hexdigest()} for name, data in rendered.items()], "work": str(work) if args.keep_work else None}))

diff --git a/site/README.md b/site/README.md
@@ -8,7 +8,7 @@ The Docs screenshots are product assets under `site/assets/screens/`, generated 
 
 DoublePaaS hosting uses the [deployment contract](../docs/deployment.md). Publish the eight HTML pages, shared CSS and JavaScript, language catalogue and builder script, favicon, robots file and sitemap together. The publisher allows those fifteen root files and optional image assets; this README and `deploy/` stay outside the served release.
 
-Firmware feature references cover main through `01fca499`. Features and Docs include saved Moments, C60/C90 two-sided tapes, on-player date/time editing and clock restoration, and the redesigned USB transfer/DAC views and controls. The 32 screenshots use configurable routes, including six Settings views, four language examples and the new Moments, tape-length and date editor views. Screenshot routes follow the added Date & time setting. Keep plans and validation work in firmware documentation and ignored notes; simulator captures show the interface, not physical-device validation.
+Firmware feature references cover main through `01fca499`. Features and Docs include saved Moments, C60/C90 two-sided tapes, on-player date/time editing and clock restoration, and the redesigned USB transfer/DAC views and controls. The 32 screenshots use configurable routes, including six Settings views, four language examples and the new Moments, tape-length and date editor views. Home screenshots and navigation follow the completed `feature/home-default` change at `1adc2783`, including Settings last, automatic Now Playing and the hidden-by-default shelves. The capture source is selected explicitly until that change reaches main. Keep plans and validation work in firmware documentation and ignored notes; simulator captures show the interface, not physical-device validation.
 
 Ogg playback, playback-speed work and unverified converter performance stay outside public playback claims. Features keeps the practical recommendation to convert speech below 32 kHz before copying it. Developers covers source builds, USB tools, clock sync, file validation, CUE parsing and ReplayGain. Hardware ratings link to FiiO and Cirrus. Keep unrelated firmware and generated language-catalogue edits outside a website-only publication.
 
@@ -21,7 +21,7 @@ The page provides source-build instructions. When a public Gnarlyr release is re
 From the repository root, with Scratch mounted and the firmware prerequisites installed:
 
 ```sh
-python3 tools/site_screenshots.py
+python3 tools/site_screenshots.py --source-root /path/to/checkout-containing-1adc2783
 ```
 
 The script builds `echo_sim` through `tools/firmware.py`, creates silent FLAC music and a chaptered M4B on Scratch, indexes them with the firmware's library tool, and navigates the simulator. It never connects to a player. The final PNGs go to `site/assets/screens/`; builds, demo files and intermediate BMPs stay on Scratch. Successful runs remove their temporary workspace; failed runs print its location for inspection.
@@ -35,7 +35,7 @@ python3 tools/site_screenshots.py --no-build --only equalizer
 python3 tools/site_screenshots.py --config /path/to/scenes.json --output /Volumes/Scratch/SnowskyEcho/reports/docs-preview
 ```
 
-`--only` can be repeated. `--no-build` explicitly reuses the existing simulator; omit it after firmware changes. `--simulator` selects a different host simulator binary. `--keep-work` retains intermediate files on Scratch. Key sequences use `up`, `down`, `play`, `menu`, `back` and `power`, optionally followed by `:long` or `:held`. Update a scene's route when a menu changes; the expected-title check prevents silently publishing a screenshot of the wrong screen. The script returns JSON for both success and errors.
+`--source-root` builds the simulator, indexes the sample library and compiles language examples from the selected checkout. Use a checkout containing `1adc2783` for the current menu recipes; once main includes that change, the default checkout works too. `--only` can be repeated. `--no-build` explicitly reuses the existing simulator; omit it after firmware changes. `--simulator` selects a different host simulator binary. `--keep-work` retains intermediate files on Scratch. Key sequences use `up`, `down`, `play`, `menu`, `back` and `power`, optionally followed by `:long` or `:held`. Update a scene's route when a menu changes; the expected-title check prevents silently publishing a screenshot of the wrong screen. The script returns JSON for both success and errors.
 
 Scrolling pages use several real captures rather than a stretched image. Add one recipe per scroll position, with its own filename and key sequence but the same expected title. Keep some overlapping entries between views so the full list is covered. The optional `group` and `view_label` fields describe related captures. Add each new image to the corresponding section in `docs.html`. Settings, Controls and EQ show every screenshot view without expandable galleries. Settings includes explanations beside each view.
 

diff --git a/docs/deployment.md b/docs/deployment.md
@@ -19,8 +19,8 @@ regenerate them with `tools/site_screenshots.py` before publishing interface cha
 | Primary URL | https://gnarlyr.com; www redirects to the apex |
 | Secondary validation URL | https://gnarlyr.apps.doublesharp.com |
 | Origin address | `159.89.222.183` |
[4 lines of base64/hex data omitted]
 
 This is a user-defined Compose Service with normal Coolify parsing, not a
 Git-backed Application. `site/deploy/compose.yaml` owns the runtime, mounts,
